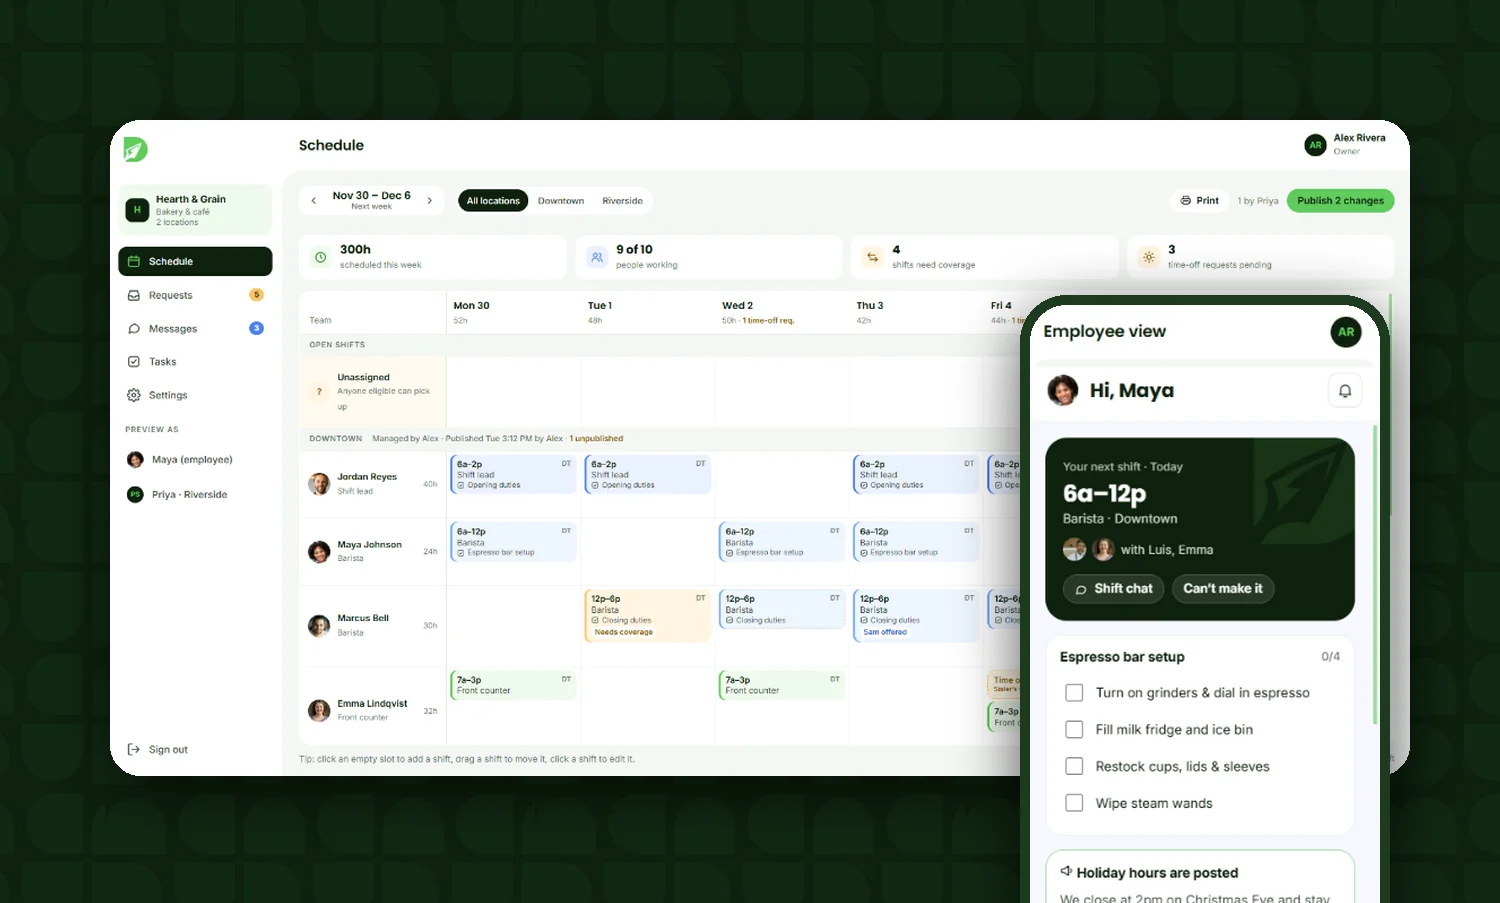
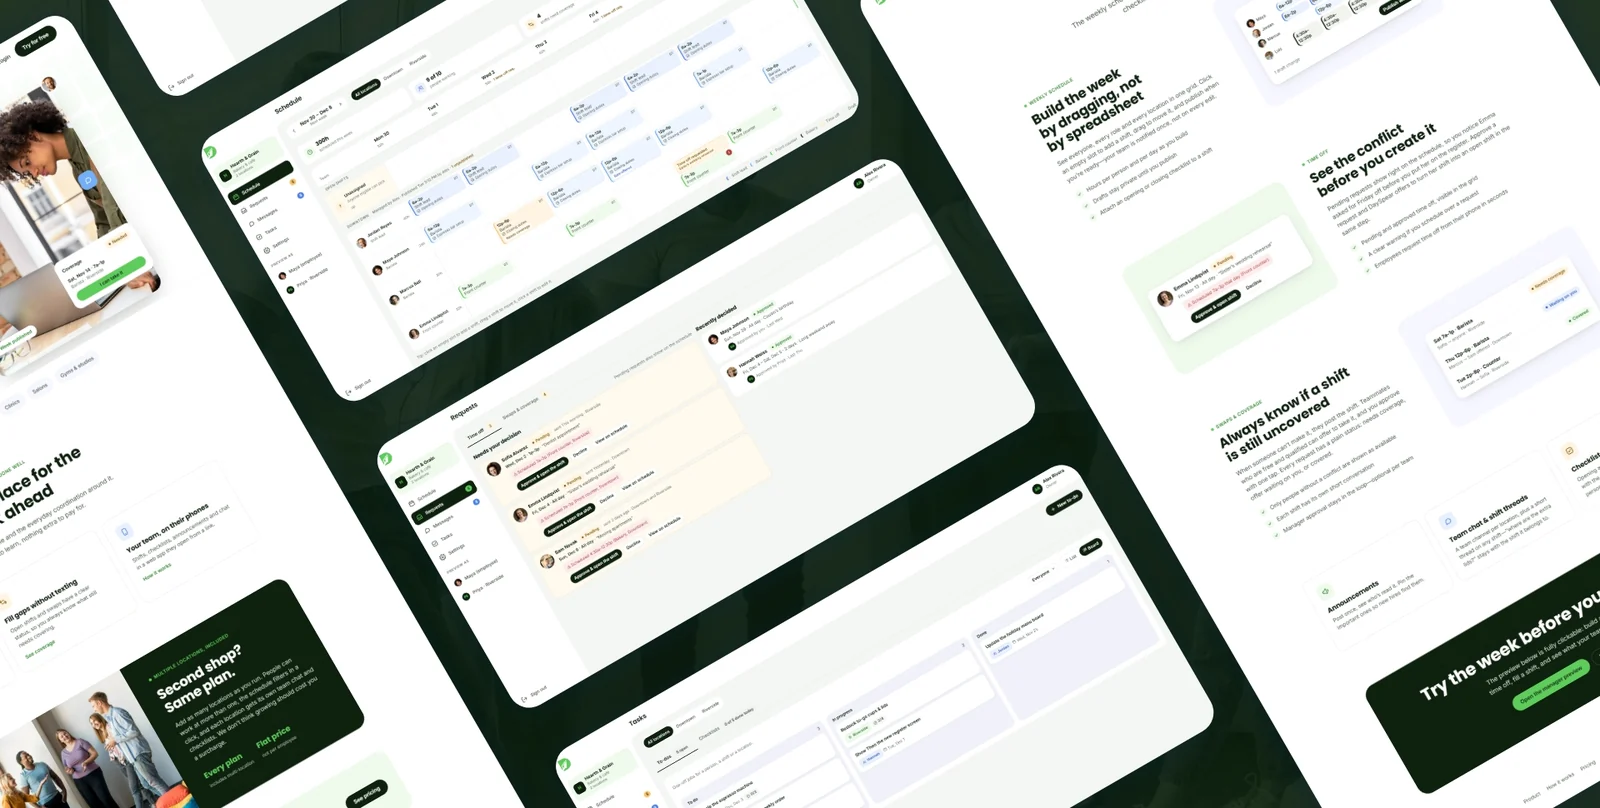
Add files via upload

diff --git a/index.html b/index.html
@@ -444,7 +444,7 @@ document.addEventListener('submit',function(e){if(e.target&&e.target.id==='cform
           <ul class="chips"><li>Product strategy</li><li>Workflow design</li><li>Desktop + mobile</li><li>Brand identity</li></ul>
           <span class="more">View case study</span>
         </div>
-        <div class="sc-media"><img src="img/dayspear.webp" alt="DaySpear schedule on desktop with the employee view on a phone" loading="lazy" style="object-position:78% 40%"><span class="tag"><i></i>Interactive prototype</span></div>
+        <div class="sc-media"><img src="img/dayspear.webp" alt="DaySpear schedule on desktop with the employee view on a phone" loading="lazy" style="object-position:45% 50%"><span class="tag"><i></i>Interactive prototype</span></div>
       </a>
       <a class="sc tone-mist" href="portfolio/651-carpets-platform/">
         <div class="sc-text">
